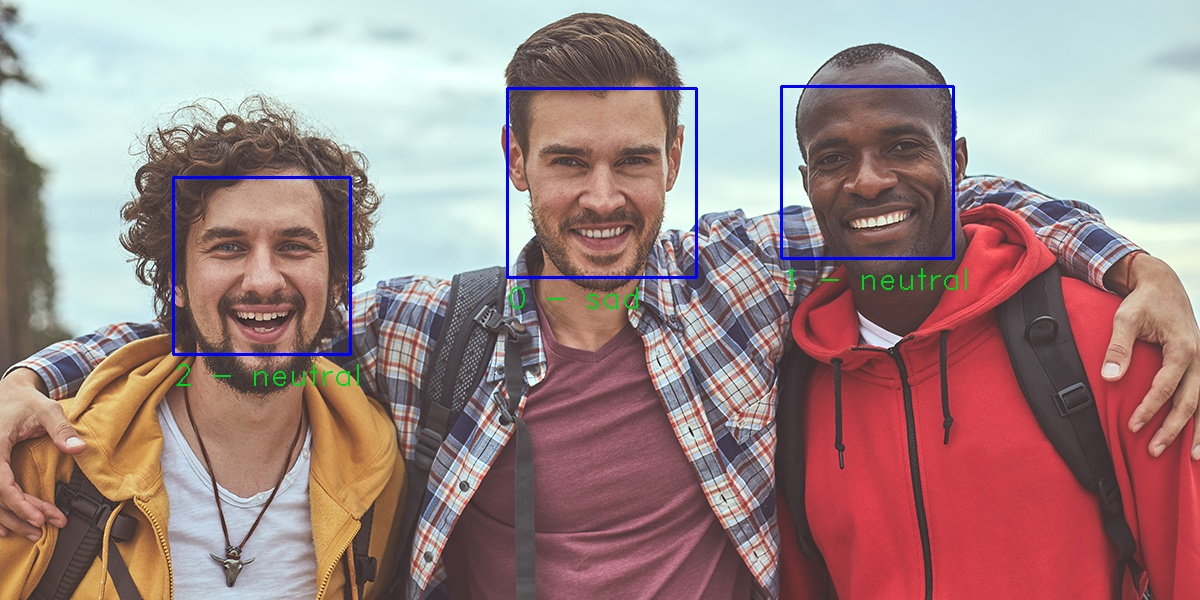
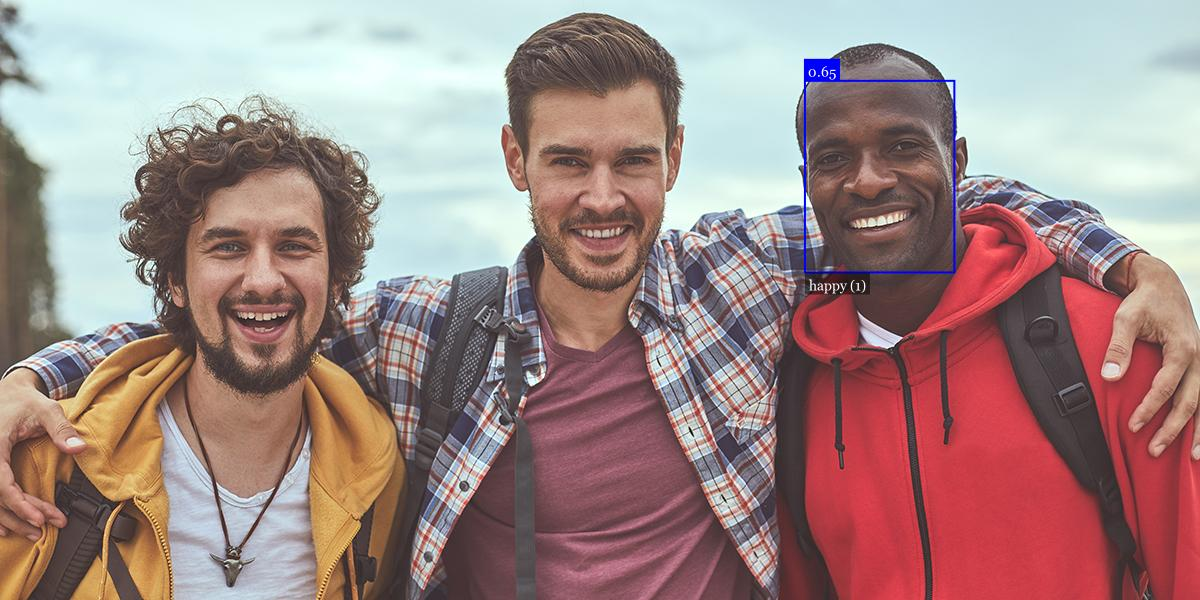
test -> found bug - TODO : fix bug, create download endpoint

diff --git a/src/routes/utils/commons/face_detection.js b/src/routes/utils/commons/face_detection.js
@@ -1,8 +1,7 @@
 const face_api = require('face-api.js');
 
-const default_face_detection_net = face_api.nets.ssdMobilenetv1;
-
-exports.face_detection_net = default_face_detection_net;
+const face_detection_net = face_api.nets.ssdMobilenetv1;
+exports.face_detection_net = face_detection_net;
 
 // SsdMobilenetv1
 const min_confidence = 0.4;
@@ -12,9 +11,9 @@ const input_size = 408;
 const score_threshold = 0.5;
 
 const get_face_detector_options = (net) => {
-    return net === face_api.nets.ssdMobilenetv1 
+    return net === face_api.nets.ssdMobilenetv1
     ? new face_api.SsdMobilenetv1Options( { min_confidence })
     : new face_api.TinyFaceDetectorOptions( {input_size, score_threshold });
 };
 
-exports.face_detection_options = get_face_detector_options(default_face_detection_net);
+exports.face_detection_options = get_face_detector_options(face_detection_net);

diff --git a/src/routes/utils/emotion_utils.js b/src/routes/utils/emotion_utils.js
@@ -61,10 +61,7 @@ const { face_detection_net,face_detection_options } = require('./commons/face_de
 
 const model_path = path.resolve(__dirname,'../../assets/model/weights');
 
-const emotion = ['angry', 'disgust', 'fear', 'happy', 'sad','surprise', 'neutral'];
-
 const image_utils = require('./image_utils');
-
 
 (async () => {
     try{
@@ -96,7 +93,7 @@ exports.predict_emotion = async (from,image) => {
     if(results.length === 0){
         throw new Error('Failed to detect faces');
     }
-
+    
     var expressions = [];
     results.forEach((res) => {
         var e = {};

diff --git a/src/routes/utils/commons/config.js b/src/routes/utils/commons/config.js
@@ -1,7 +1,7 @@
-const canvas = require('./env.js');
+//const canvas = require('./env.js');
 const { face_detection_net,face_detection_options} = require('./face_detection.js');
 
-exports.canvas = canvas;
+//exports.canvas = canvas;
 
 exports.face_detection_net = face_detection_net;
 exports.face_detection_options = face_detection_options;
